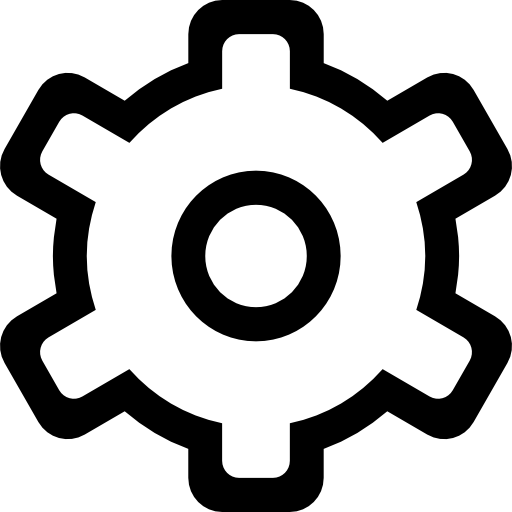
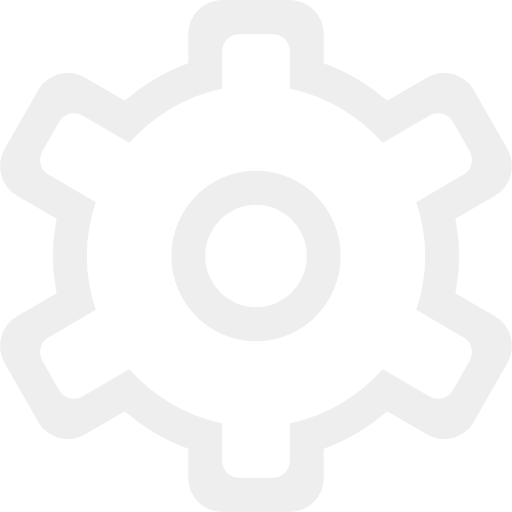
styled order profile pages and attached id's to dropdown products

diff --git a/app/assets/stylesheets/global.css b/app/assets/stylesheets/global.css
@@ -166,3 +166,11 @@ body {
 .dropup-pad{
   margin-left: 20px;
 }
+.settings-img {
+  width: 40px;
+  height: auto;
+  color: #eeeeee;
+}
+.nodecor{
+  text-decoration: none;
+}

diff --git a/app/assets/stylesheets/order_profiles.css b/app/assets/stylesheets/order_profiles.css
@@ -9,4 +9,5 @@
   margin-top: 60px;
   height: 100vh;
   overflow: hidden;
+  color: #eeeeee;
 }
